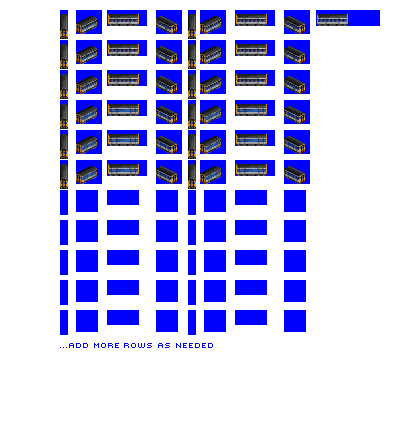
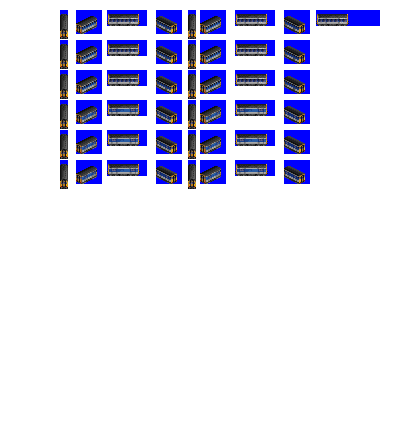
Fix: clipped sprites on Tin Rocket

Changed region(s): [[0.24, 0.4136, 0.78, 0.7977], [0.15, 0.4136, 0.36, 0.7977]]

diff --git a/src/vehicles/tin_rocket.py b/src/vehicles/tin_rocket.py
@@ -11,7 +11,7 @@ consist = EngineConsist(id = 'tin_rocket',
               intro_date = 1998,
               vehicle_life = 40,
               graphics_status = '',
-              use_legacy_spritesheet = True)
+              use_legacy_spritesheet = False)
 
 consist.add_unit(DieselRailcar(consist = consist,
                         weight = 65,
